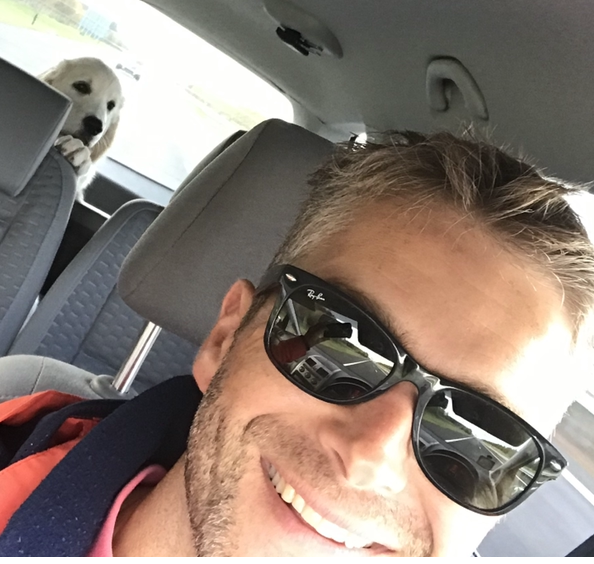
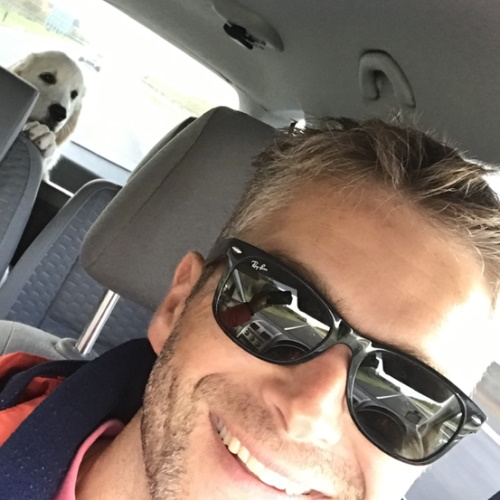
Changed team images resolutions.

diff --git a/style/header.css b/style/header.css
@@ -57,7 +57,7 @@
 }
 
 .header .dropdown .nav .nav-item {
-	margin: auto;
+	margin: auto 20px;
 	text-align: center;
 }
 
